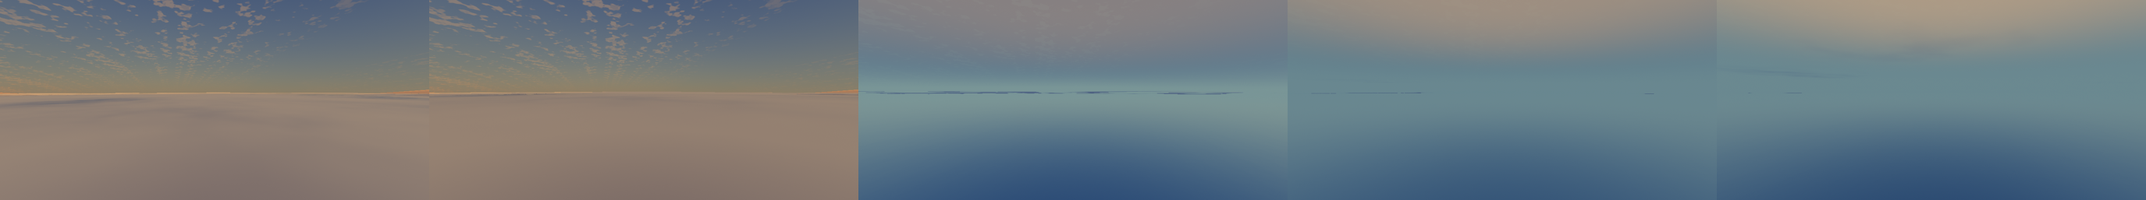
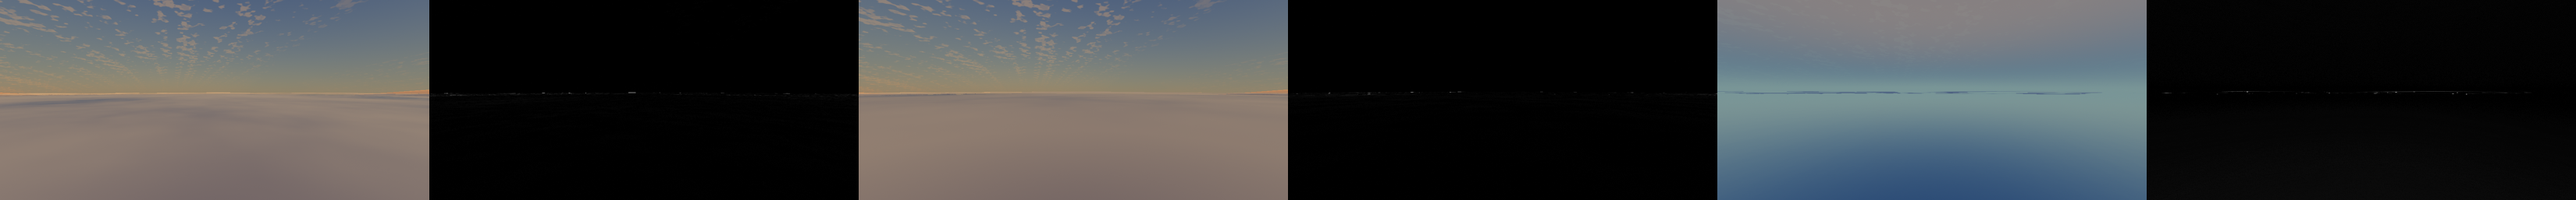
Report: the mist from close above, and its two strips
Claude-Session: https://claude.ai/code/session_01R5Bri3JsgPNqFWmnrwMeAB

diff --git a/docs/briefs/sky-faults-report.md b/docs/briefs/sky-faults-report.md
@@ -770,3 +770,51 @@ test on Mars, every shader inside a phone's limits, none failed to compile);
 `scripts/shader-first-use.mjs`: 69 shaders made before play, 0 after the third frame of play
 (87 frames in 420 s here). Not run: the Haven benchmark in the smoke test (hours on this
 machine; it is the one that would print the sky's new rows), `--streaming`.
+
+## Seventh note (2026-11-28): the mist from close above (docs/briefs/mist-close.md)
+
+The owner's view (90 m over the wood on the shore of the mist view's lake at dawn):
+`mist_close_pair.png` (before over after), `mist_close_floor.png` (with every saving on, an
+earlier form of the same law), `mist_close_key6.png` (key 6: it keeps its look),
+`mist_close_down.png` (straight down from 17 m over its top: an even grey-brown, the dark
+dawn water dimmed; at that distance the top's lumps, 900 m wide, give it no form).
+
+**What was wrong**: the mist was only a sheet at its top. Whatever stood in it was cut level
+where the sheet crossed it, and the sheet's own tone was all there was to see of it.
+
+**What it is now.**
+- `lightingGlsl.js`, `float mistShare(vec3 rel, out vec3 mistCol)` (shared; the speed helper
+  told first): for an eye above the mist, a thing goes into it by its own depth under the
+  mist's top: the stretch of the line of sight under the top, at most 2.5 times the thing's
+  own depth (mist on a lake is not a level sea over the low land round it: with the whole
+  stretch a wood inland was row behind row of one pale tone), coming on over 16 m of depth,
+  lit by the sky alone (with a share of the Sun's a wood in a hill's shadow took a sunlit
+  cream), and NOT the water the mist lies on, which is the sheet's to hide and to show through
+  its thin places. Called in `rainVeil` (everything that takes the air at the pixel) and at
+  the end of `hazeAffine` (the ground and the trees, at their vertices). No texture, no pass:
+  two shared uniforms (`uMist`, `uMistAt` in `globals.js`), nothing read where there is no
+  mist or the thing stands over its top.
+- `fogSheet.js` `_level`: the mist's top as one level, the surface of the lattice's own water
+  nearest the traveller and 34 m (a lake is level), with the field's fog there; asked again
+  every 30 frames. The sheet seen from above takes 0.85 of what it took, is left out of the
+  law (`NO_MIST`), and its top has billows: the two readings of the noise it already made
+  shade it into lit crests and hollows (flatter from far off and under the governor's
+  existing `fog-sheet` step: no new step).
+- The cost test has a row, "things in the mist going into it by their own depth" (what
+  leaving it out saves).
+
+**On the way, three forms that were wrong, each seen only in a picture**: the law taking the
+water too (the lake one flat beige, key 6 a plate); two pushes in which the sheet was not
+drawn at all (its pixel shader read a uniform only its vertex shader declared: the build and
+every Node test passed); the mist on things lit by the Sun where the land shades it.
+
+**In motion** (`motion_mist_sink_stations.png`, `motion_mist_shore_stations.png`: first frame
+and difference of each station): sinking through its top, three stations: 0.01 % of pixels
+changed, no flicker. Level flight 90 m over the shore along it (`haven_mist_shore`, new, half
+a metre a frame): the mist's part of the difference picture is black at all three stations
+(no crawl on the billows, no line at the shore); 6.7 / 3.2 / 0.8 % changed and 0.64 / 0.31 /
+0.07 % flicker, all of it on the outlines of the trees passing 90 m below. Whether that is
+the trees' own or the mist on them: the same move on the build before the mist, below when in.
+
+**Not done**: the counts (`gl-count`): the law adds no pass and no texture, so they are the
+sheet's as before; the phone's ms are the cost test's row. Nothing measured on the phone.
